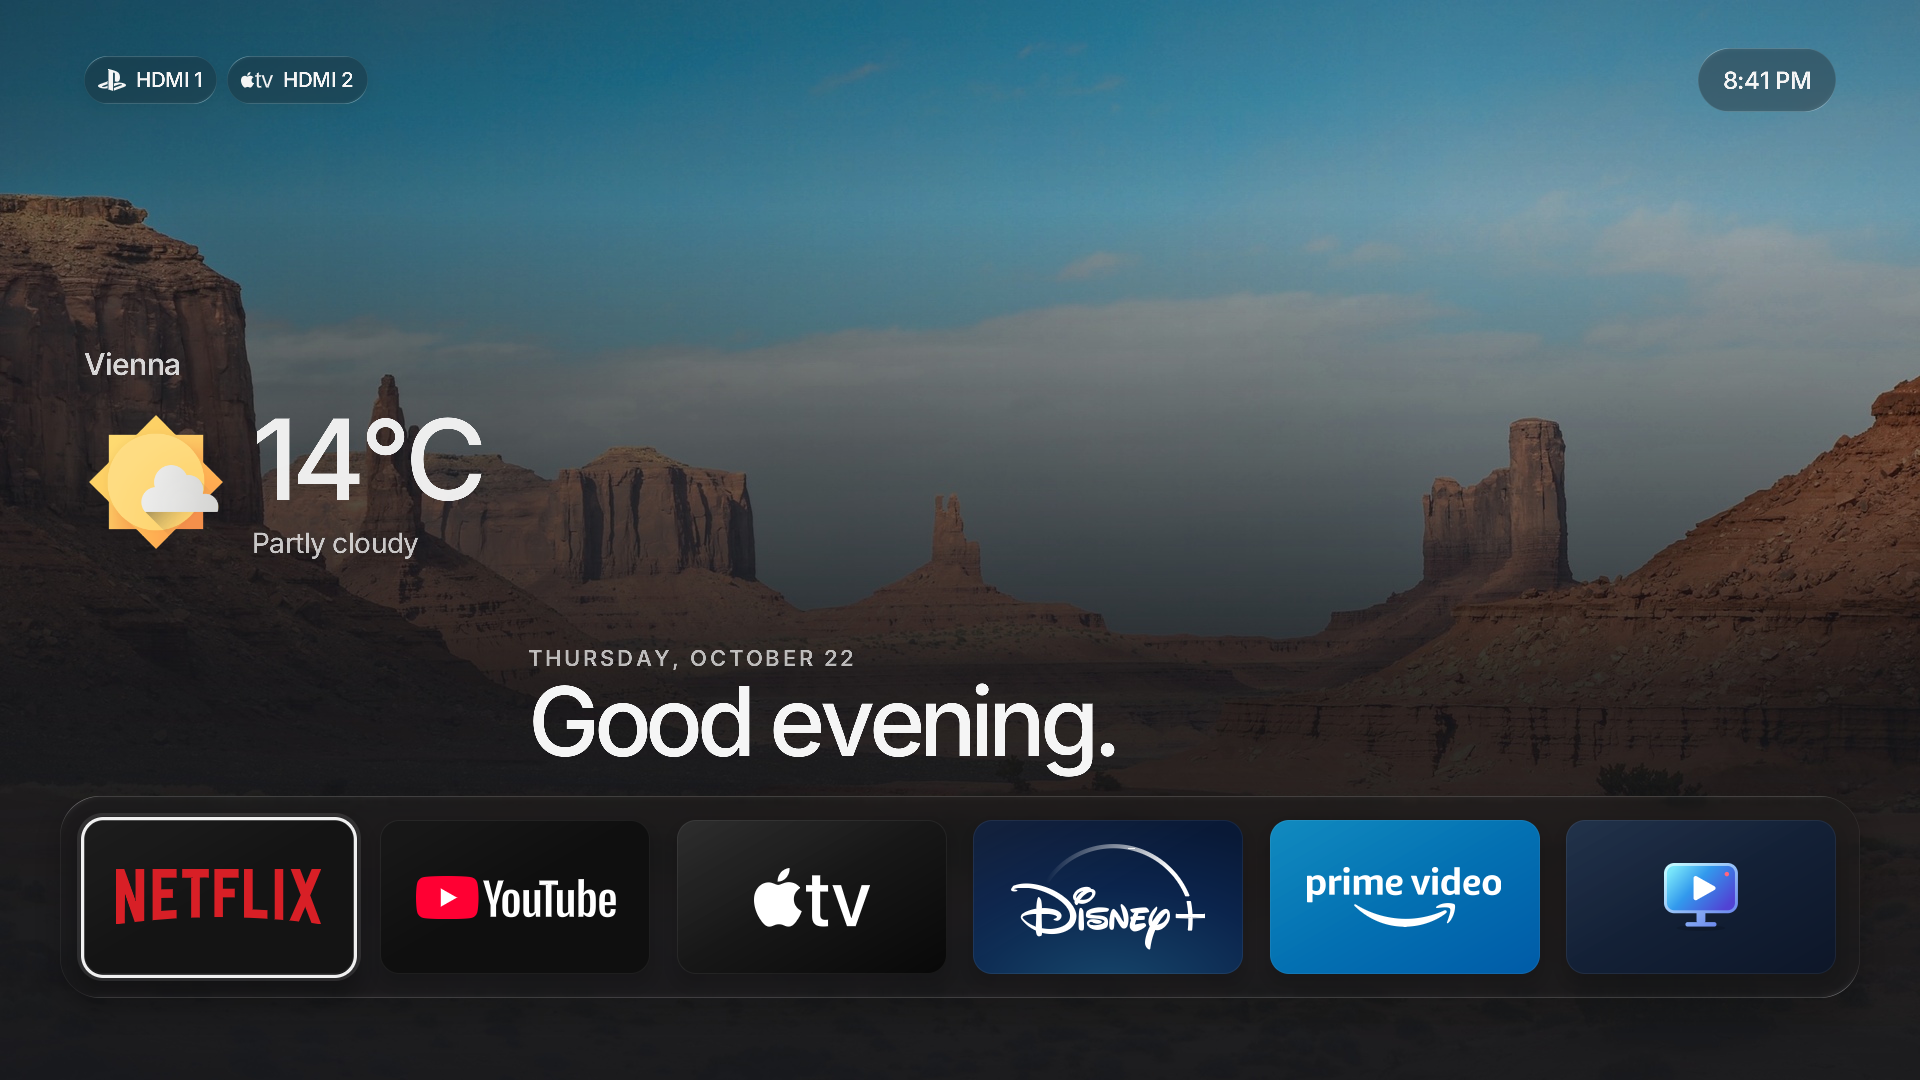
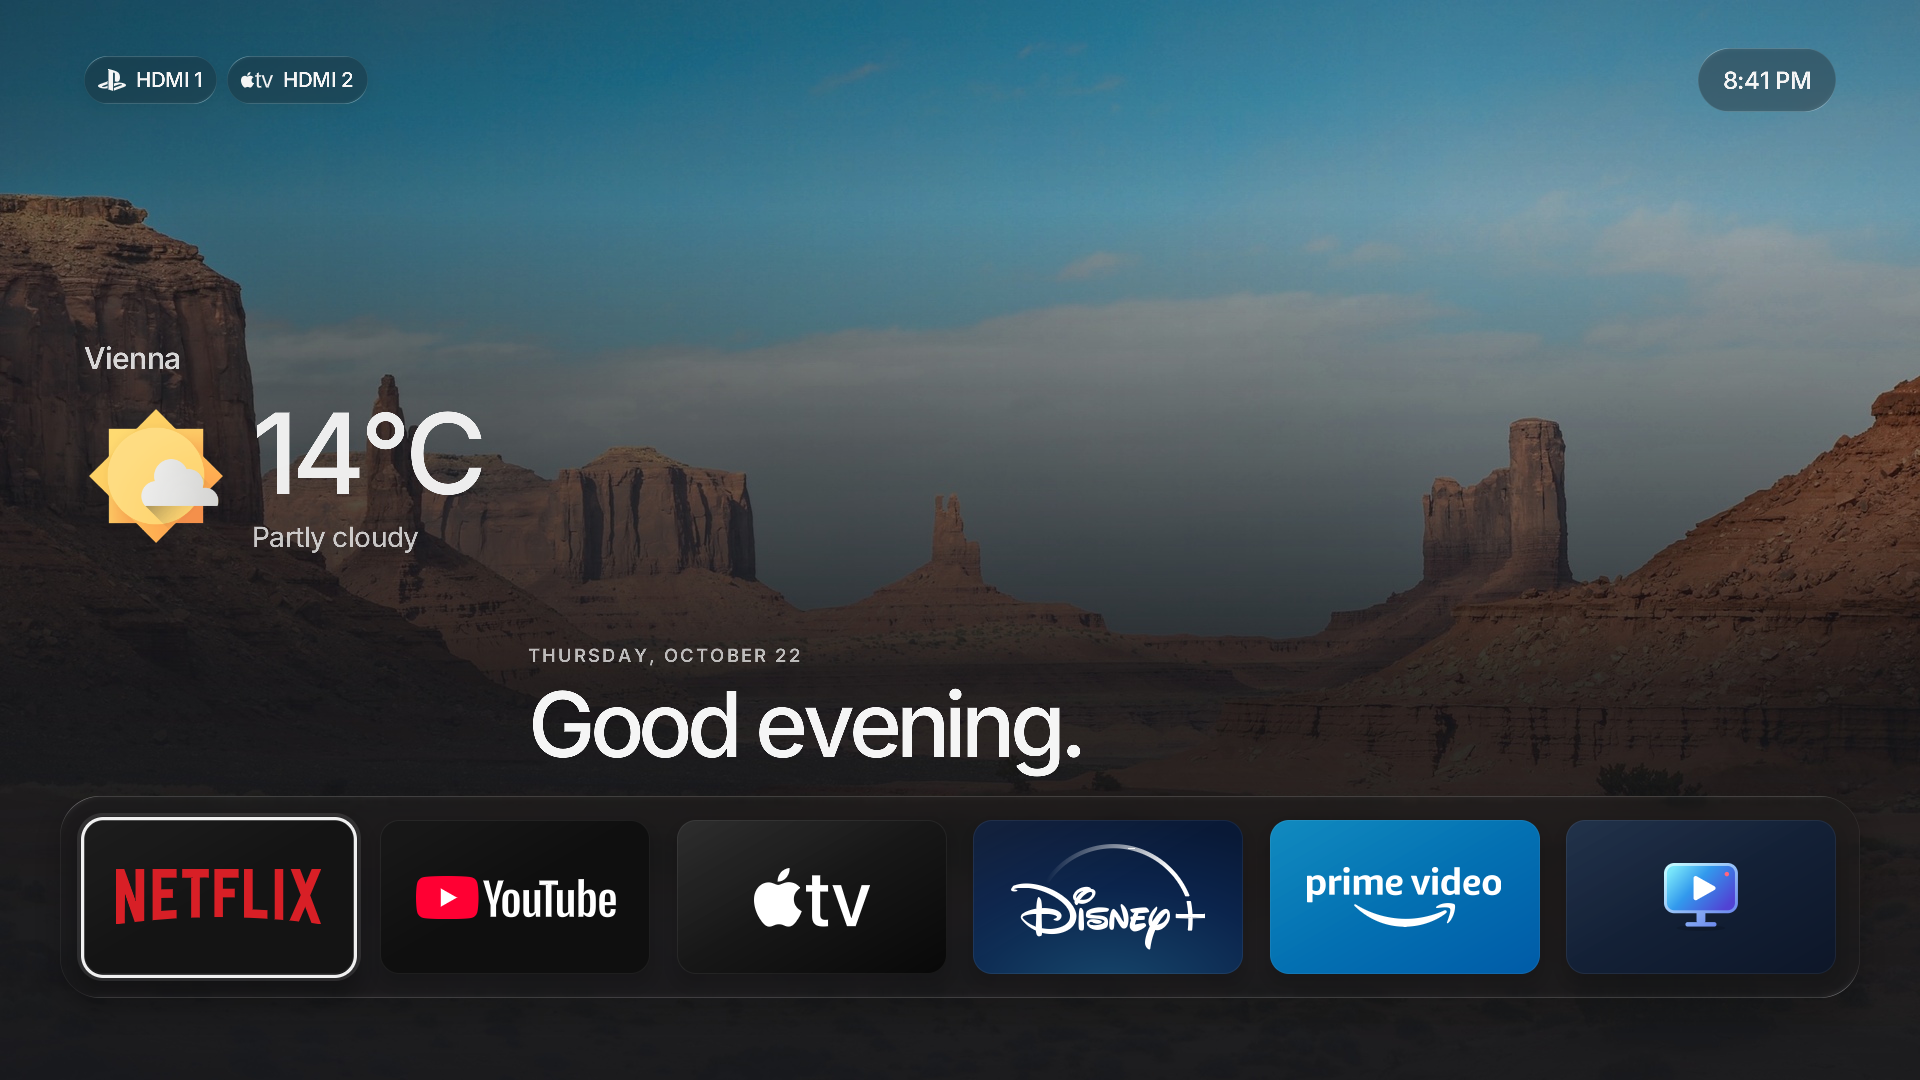
fix(widgets): restore greeting typography and top-align weather

diff --git a/src/view.rs b/src/view.rs
@@ -1249,30 +1249,29 @@ fn home_widgets(out: &mut Scene, state: &State, assets: &Assets, now: OffsetDate
                 }
             }
             let controls = out.controls.len();
-            let height = summary.height;
-            weather_summary(out, state, assets, summary, cell.y + (cell.h - height) / 2.);
+            weather_summary(out, state, assets, summary, cell.y);
             if let Some(control) = out.controls.get_mut(controls) {
                 control.rect.x = cell.x;
             }
             continue;
         }
-        // Keep the larger date and greeting inside the fixed 3×1 footprint
-        // by tightening their gap rather than widening or clipping the widget.
+        // Keep the original typography within the wider 3×1 footprint,
+        // fitting long translations rather than clipping the widget.
         let label = language.greeting(now.hour(), "");
-        let style = assets.fit_text(&label, text(96., 500, -0.065).leading(1.05), cell.w);
+        let style = assets.fit_text(&label, text(90.4, 500, -0.065).leading(1.05), cell.w);
         let height = style.size * style.line_height;
         let date_band = if state.preferences.show_date {
-            26.4
+            32.8
         } else {
             0.
         };
         let top = cell.y + (cell.h - date_band - height) / 2.;
         if state.preferences.show_date {
             let date = state.preferences.date_format.format(language, now);
-            let (date, date_style) = assets.fit_line(&date, text(22., 600, 0.12), cell.w, 14.);
+            let (date, date_style) = assets.fit_line(&date, text(18.4, 600, 0.12), cell.w, 14.);
             out.text(
                 date,
-                Rect::new(cell.x, top, cell.w, date_band),
+                Rect::new(cell.x, top, cell.w, 24.),
                 date_style,
                 c(0xf5f5f5, 0.72),
                 false,
@@ -4396,7 +4395,7 @@ mod tests {
     }
 
     #[test]
-    fn larger_greeting_and_date_fit_inside_one_footprint_in_every_language() {
+    fn original_greeting_and_date_typography_fit_inside_three_column_footprint_in_every_language() {
         let assets = assets();
         for language in Language::ALL {
             for hour in [0, 9, 15, 20] {
@@ -4433,7 +4432,7 @@ mod tests {
                     assert_eq!(assets.lines(&label, style, rect.w), 1);
                     assert!(rect.h + 0.001 >= style.size * style.line_height);
                     if is_date {
-                        assert_eq!(style.size, 22.);
+                        assert_eq!(style.size, 18.4);
                         assert_eq!(style.weight, 600);
                         assert_eq!(style.tracking, 0.12);
                     } else {
@@ -4441,7 +4440,7 @@ mod tests {
                         assert_eq!(style.tracking, -0.065);
                         assert_eq!(style.line_height, 1.05);
                         if language == Language::En {
-                            assert_eq!(style.size, 96.);
+                            assert_eq!(style.size, 90.4);
                         }
                     }
                 }
@@ -4562,6 +4561,7 @@ mod tests {
                     .find(|control| control.target == Target::WeatherConfigure)
                     .unwrap();
                 assert_eq!(control.rect.x, cell.x);
+                assert_eq!(control.rect.y, cell.y);
                 assert!(
                     control.rect.y >= cell.y && control.rect.y + control.rect.h <= cell.y + cell.h
                 );

diff --git a/src/weather-style-tests.rs b/src/weather-style-tests.rs
@@ -66,6 +66,16 @@ fn home_styles_share_content_and_keep_the_dock_fixed() {
     for style in WeatherStyle::ALL {
         state.preferences.weather_style = style;
         let rendered = scene(&state);
+        let top_label = if style == WeatherStyle::Compact {
+            "14°C"
+        } else {
+            "Vienna"
+        };
+        assert!(
+            rendered.draw.iter().any(|draw| matches!(draw,
+            Draw::Text(label, rect, ..) if label == top_label && rect.y == 188.)),
+            "Weather content must align with the top of its default grid cell"
+        );
         assert!(
             rendered
                 .draw

diff --git a/.changeset/home-widget-grid.md b/.changeset/home-widget-grid.md
@@ -2,7 +2,7 @@
 'lg-luma': minor
 ---
 
-Add a grid-first Home widget manager with app-style Configure, Move and Remove menus, plus Reset to defaults and Add widget pills above the grid. Greeting combines weekday/date and a time-based greeting in three columns and one row, with larger 96px greeting and 22px date text; Weather spans one column and two rows. By default Greeting sits at the top left and Weather at the top right, spanning the first two rows. Valid saved custom placements are preserved. Preview fixed-size placements with the remote or pointer and reject overlaps or out-of-bounds positions. Removing frees cells while retaining configuration, and adding only saves after confirming placement. Reset restores default widgets and positions without clearing their settings. Configuration no longer has show/hide widget switches. Inputs moves to its own sidebar section below Apps and is not a widget. The app dock is unchanged; date visibility/format remain inside Greeting settings, without a separate Date widget or configurable name.
+Add a grid-first Home widget manager with app-style Configure, Move and Remove menus, plus Reset to defaults and Add widget pills above the grid. Greeting combines weekday/date and a time-based greeting in three columns and one row, with the original 90.4px greeting and 18.4px date typography; Weather spans one column and two rows with top-aligned content. By default Greeting sits at the top left and Weather at the top right, spanning the first two rows. Valid saved custom placements are preserved. Preview fixed-size placements with the remote or pointer and reject overlaps or out-of-bounds positions. Removing frees cells while retaining configuration, and adding only saves after confirming placement. Reset restores default widgets and positions without clearing their settings. Configuration no longer has show/hide widget switches. Inputs moves to its own sidebar section below Apps and is not a widget. The app dock is unchanged; date visibility/format remain inside Greeting settings, without a separate Date widget or configurable name.
 
 Keep the full weather-setup action readable in every language by wrapping long translations inside the fixed-size widget instead of truncating them.
 

diff --git a/development.md b/development.md
@@ -143,7 +143,7 @@ and the generic disc input icon from the native desktop renderer using seeded lo
 
 Home uses a 4×4 placement grid in logical 1920×1080 space above the unchanged dock.
 Greeting combines weekday/date and greeting in 3 columns × 1 row; Weather spans 1 column × 2 rows.
-Greeting uses 96px text with 1.05 leading and a 22px date in a tighter 26.4px band,
+Greeting uses 90.4px text with 1.05 leading and an 18.4px date in a 32.8px band,
 keeping both lines inside the 128px-tall row; long translations fit to the available width.
 Their anchors persist as `greeting_position` and `weather_position` (`column`, `row`, zero-based).
 Defaults are Greeting (0,0), Weather (3,0). The separate-Date draft's untouched defaults migrate
@@ -166,9 +166,10 @@ The legacy `show_greeting` and `show_weather` fields now store whether each widg
 old hidden widgets start removed. Configuration menus have no widget visibility or position rows.
 `show_date` optionally hides the combined Greeting's date line. Removed Weather never requests forecasts.
 Greeting settings contain the date toggle and format picker, with no separate Date widget or position.
-The date uses 22px/600/+0.12 tracking at 72% opacity; Greeting uses
-96px/500/−0.065 tracking and 1.05 leading, fitting shorter for long translations.
-The tighter 26.4px date band keeps both larger lines inside one grid row.
+The date uses 18.4px/600/+0.12 tracking at 72% opacity; Greeting uses
+90.4px/500/−0.065 tracking and 1.05 leading, fitting shorter for long translations.
+The 32.8px date band keeps both lines inside one grid row.
+Weather content is top-aligned within its 1×2 footprint in every style.
 Greeting has no name editor; legacy `greeting_name` fields are ignored and not serialized.
 All three weather styles reflow inside the same fixed footprint. `pnpm screenshots --widgets`
 captures the default arrangement, an alternate arrangement, the grid manager, actions and Add catalog.
